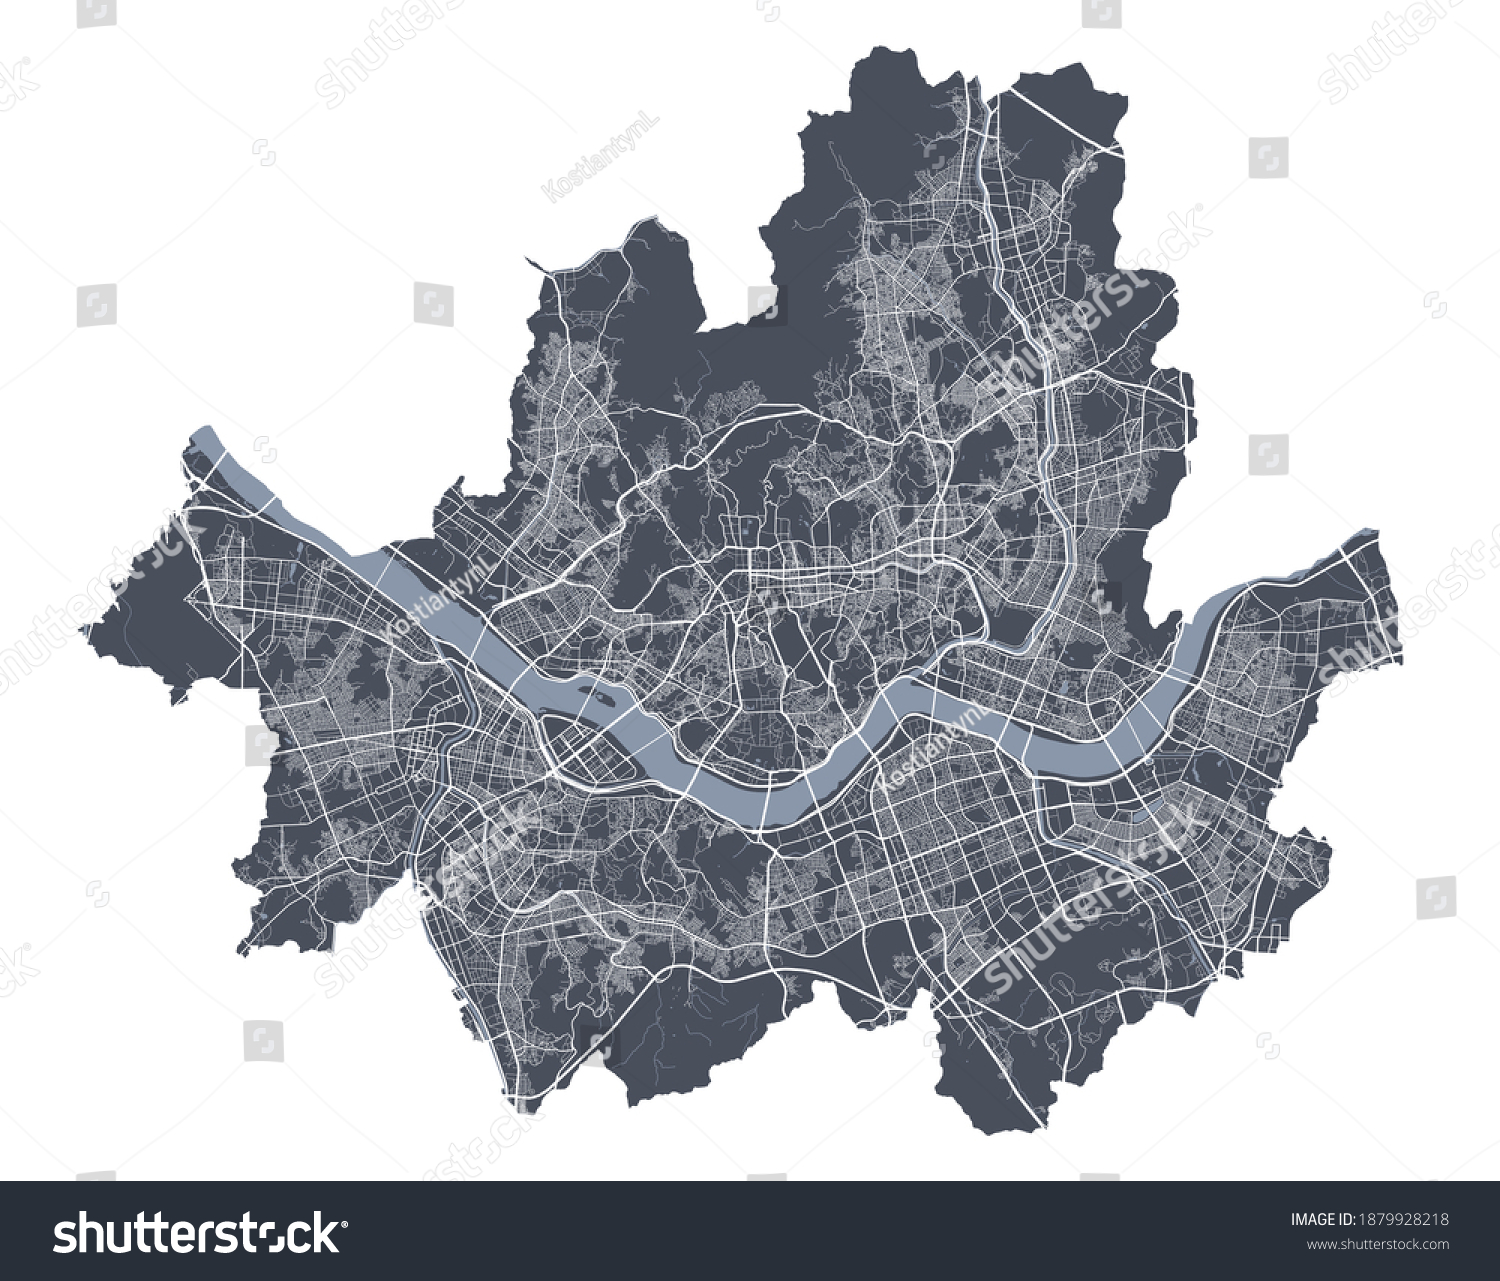
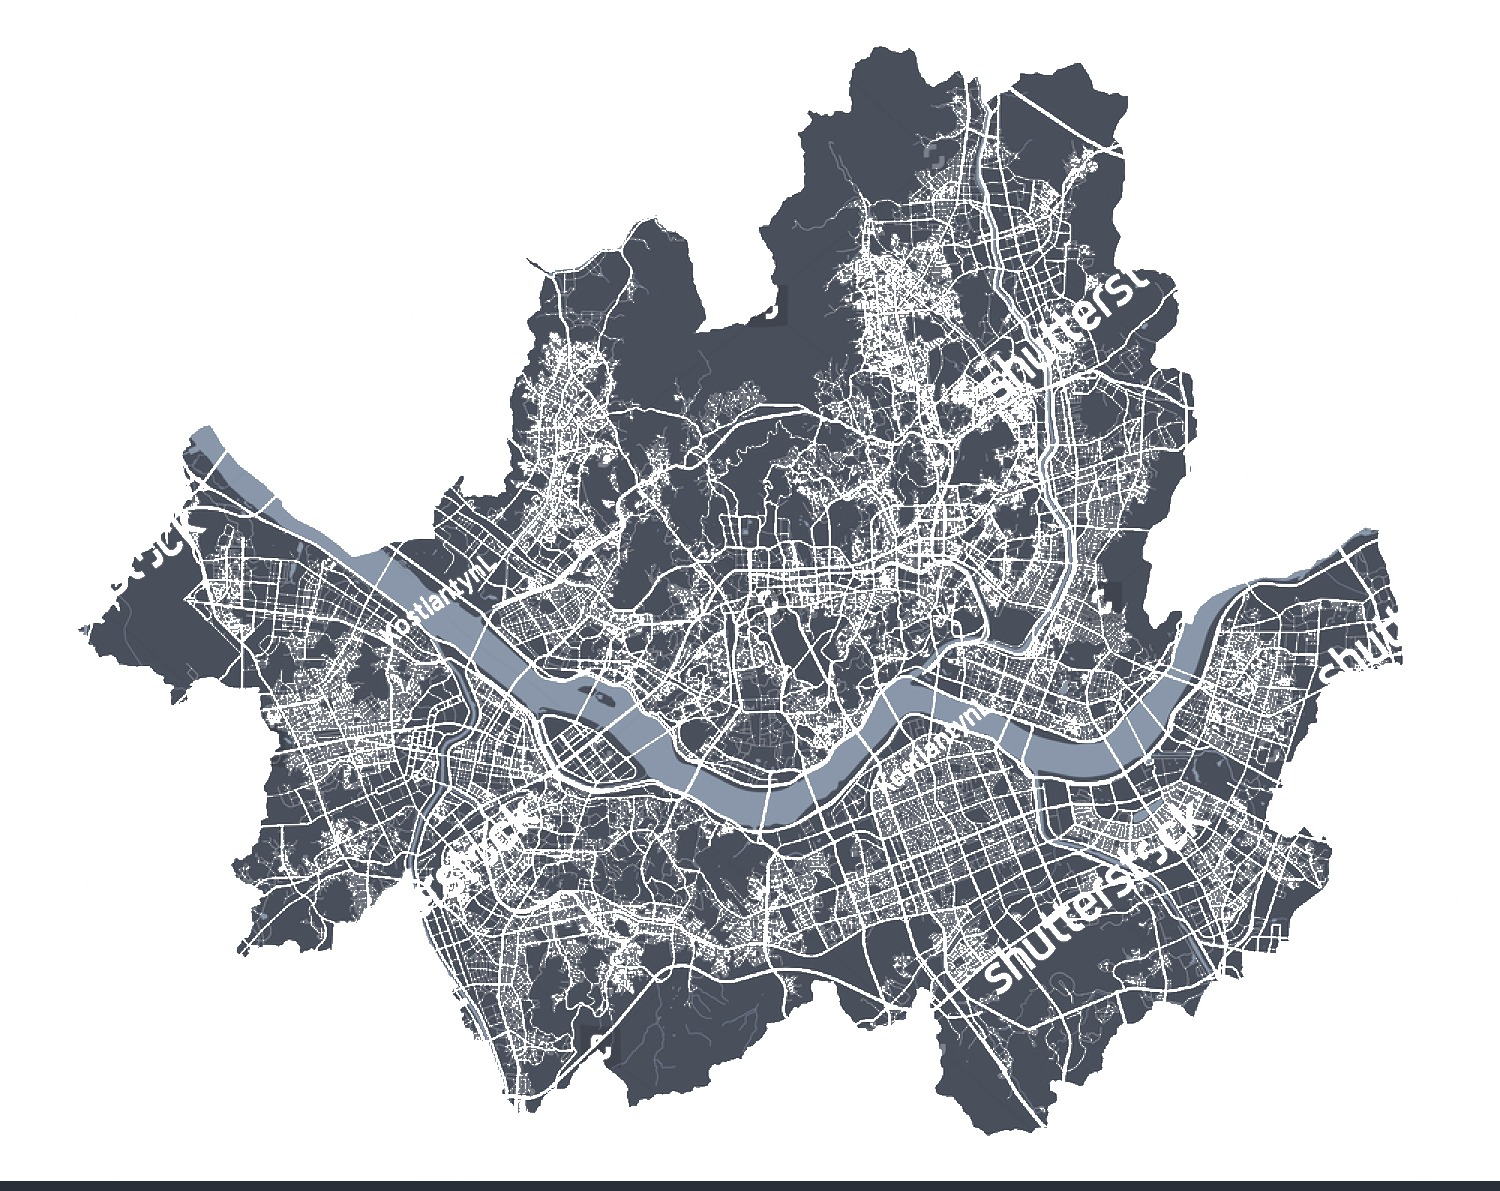
Slide 6 — 빔 길이 단축 + 지도 배경/워터마크 제거
빔 직선:
- 종료점을 보드 세로 중심에서 보드 바닥선으로 변경
- 빔이 격자 보드 안으로 가로지르지 않고 보드 진입 직전에 멈춤

지도 정리:
- maps/seoul_real.jpg 재가공: 회색 배경 박스 → 흰색, 바닥 ID 텍스트 영역(하단 7%) 잘라냄
- mix-blend-mode:multiply로 흰 부분 투명 처리되어 페이지에 자연스럽게 녹아듦
- ?v=4 캐시 버스팅

diff --git a/index.html b/index.html
@@ -969,7 +969,7 @@
     <!-- ① 서울특별시 지도 (실제 지도 이미지, 흰 배경 제거 + 테두리 없음, 바닥에 누운 perspective + 밑에서 떠오름) — 하단 중앙 -->
     <div id="s06-seoul-wrap" style="position:absolute;left:50%;bottom:6%;width:54%;max-width:680px;transform:translate(-50%,80px) rotateX(58deg);transform-style:preserve-3d;transform-origin:50% 100%;opacity:0;transition:opacity 1s ease-out,transform 1.2s cubic-bezier(.22,1,.36,1);z-index:1">
       <div style="position:relative;width:100%">
-        <img src="maps/seoul_real.jpg?v=3" alt="Seoul map" draggable="false" style="display:block;width:100%;height:auto;pointer-events:none;user-select:none;mix-blend-mode:multiply;background:transparent;filter:contrast(1.05)"/>
+        <img src="maps/seoul_real.jpg?v=4" alt="Seoul map" draggable="false" style="display:block;width:100%;height:auto;pointer-events:none;user-select:none;mix-blend-mode:multiply;background:transparent;filter:contrast(1.05)"/>
         <!-- 지도 위 격자 셀 + 퍼져나가는 울림 글로우 (이미지 위에 SVG 오버레이) — 종로·중구 도심부 -->
         <svg id="s06-zoom-target-svg" viewBox="0 0 100 100" preserveAspectRatio="none" style="position:absolute;inset:0;width:100%;height:100%;pointer-events:none;overflow:visible">
           <defs>
@@ -2953,27 +2953,27 @@ g.innerHTML+=`<text x="360" y="332" font-size="20" text-anchor="middle" fill="#d
     const tLeft = tRect.left - wrapRect.left;     // 셀 좌변 x
     const tRight = tRect.right - wrapRect.left;   // 셀 우변 x
     const tMid = (tRect.top + tRect.bottom) / 2 - wrapRect.top;  // 셀 세로 중심
-    // 격자 보드 좌·우 사이드 (양변, 보드의 앞쪽 라인 위)
+    // 격자 보드 좌·우 사이드 (양변, 보드의 바닥선) — 빔이 격자를 가로지르지 않도록 보드 진입 직전에 멈춤
     const sRect = spot.getBoundingClientRect();
     const gLeft = sRect.left - wrapRect.left;     // 보드 좌변 x
     const gRight = sRect.right - wrapRect.left;   // 보드 우변 x
-    const gMid = (sRect.top + sRect.bottom) / 2 - wrapRect.top;  // 보드 세로 중심
-    // 사다리꼴 빔 — 셀의 좌·우변 중심점에서 보드의 좌·우변 중심점으로 직접 연결
+    const gBottom = sRect.bottom - wrapRect.top;  // 보드 바닥선 (빔 종료점)
+    // 사다리꼴 빔 — 셀 양변 → 보드 바닥 양 모서리 (보드 안으로 들어가지 않음)
     beamPoly.setAttribute('points',
       `${tLeft.toFixed(1)},${tMid.toFixed(1)} ` +
       `${tRight.toFixed(1)},${tMid.toFixed(1)} ` +
-      `${gRight.toFixed(1)},${gMid.toFixed(1)} ` +
-      `${gLeft.toFixed(1)},${gMid.toFixed(1)}`
+      `${gRight.toFixed(1)},${gBottom.toFixed(1)} ` +
+      `${gLeft.toFixed(1)},${gBottom.toFixed(1)}`
     );
-    // 양쪽 경계선 — 셀 좌변 → 보드 좌변, 셀 우변 → 보드 우변
+    // 양쪽 경계선 — 셀 양변 → 보드 바닥 양 모서리에서 끝남
     zoomL1.setAttribute('x1', tLeft.toFixed(1));
     zoomL1.setAttribute('y1', tMid.toFixed(1));
     zoomL1.setAttribute('x2', gLeft.toFixed(1));
-    zoomL1.setAttribute('y2', gMid.toFixed(1));
+    zoomL1.setAttribute('y2', gBottom.toFixed(1));
     zoomL2.setAttribute('x1', tRight.toFixed(1));
     zoomL2.setAttribute('y1', tMid.toFixed(1));
     zoomL2.setAttribute('x2', gRight.toFixed(1));
-    zoomL2.setAttribute('y2', gMid.toFixed(1));
+    zoomL2.setAttribute('y2', gBottom.toFixed(1));
   }
 
   function play(){